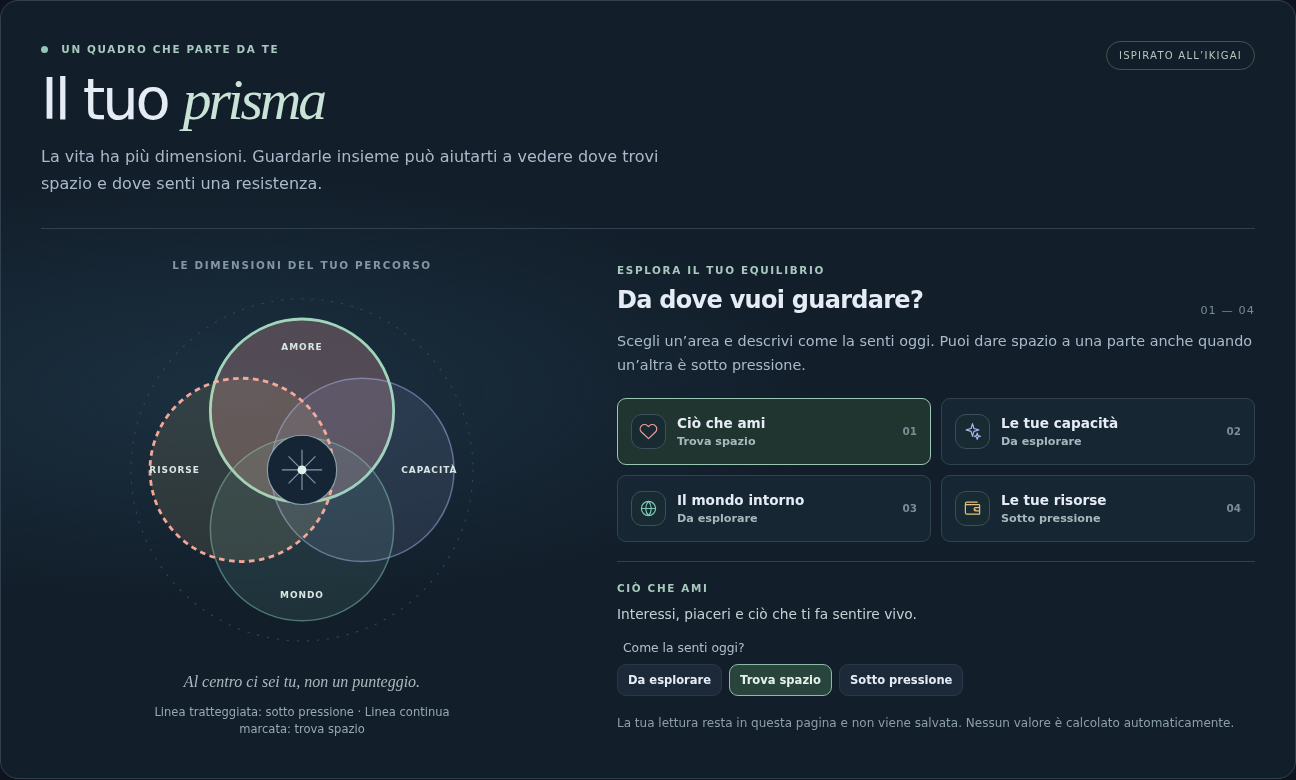
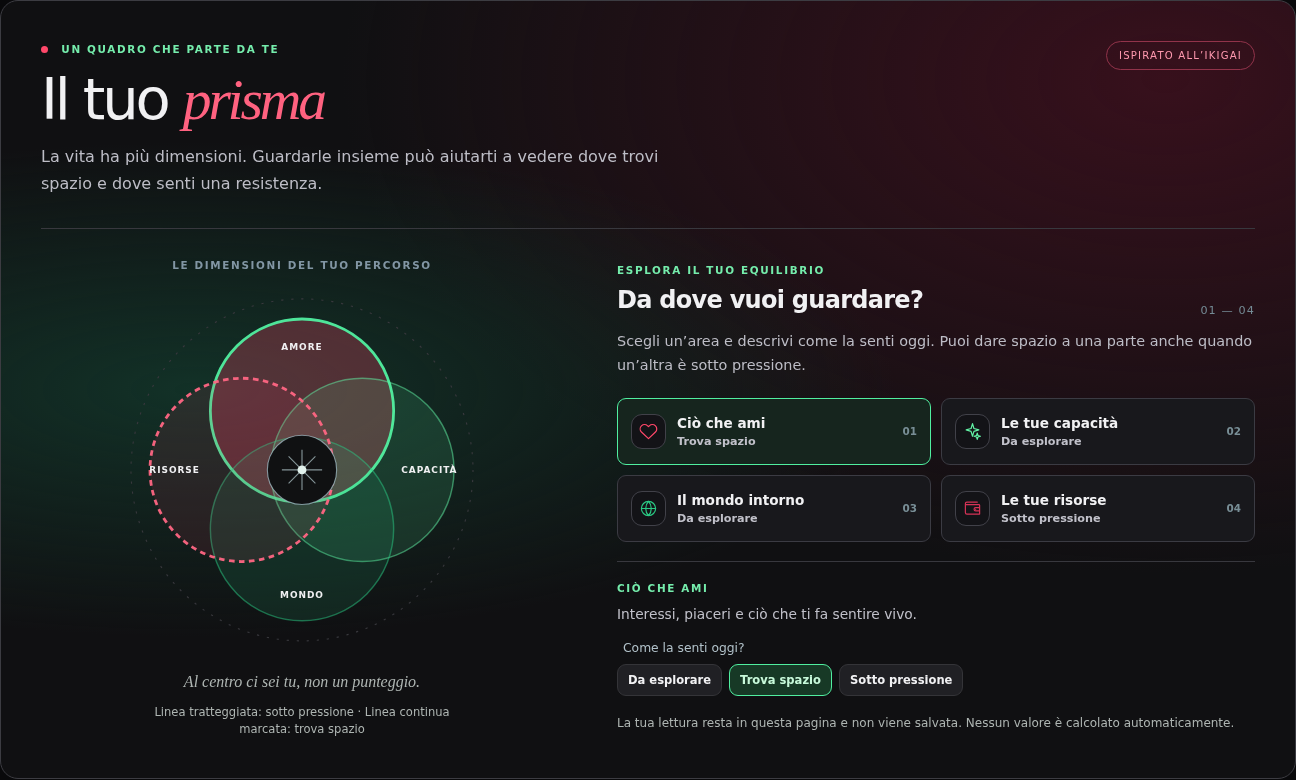
style: apply black red and green identity

diff --git a/docs/assets/site.css b/docs/assets/site.css
@@ -1,4 +1,7 @@
-:root{color-scheme:dark;--ink:#edf2ee;--muted:#a5b7ba;--mint:#a9d4c1;--line:#2a3d40;--bg:#0b151a}*{box-sizing:border-box}html{scroll-behavior:smooth}body{margin:0;background:var(--bg);color:var(--ink);font:16px/1.7 system-ui,-apple-system,BlinkMacSystemFont,"Segoe UI",sans-serif}a{color:inherit;text-decoration:none}a:focus-visible{outline:2px solid #c1e6d5;outline-offset:5px}.skip{position:absolute;top:-100px;left:16px;background:#fff;color:#000;padding:8px;z-index:10}.skip:focus{top:10px}.wrap{width:min(1280px,calc(100% - 100px));margin:auto}.topbar{height:104px;display:flex;align-items:center;justify-content:space-between;gap:24px;border-bottom:1px solid var(--line)}.brand{display:flex;align-items:center;gap:12px;letter-spacing:.16em;font-size:.93rem;font-weight:750;line-height:1.2}.brand small{display:block;letter-spacing:.12em;font-size:.49rem;color:#8aa6a0;margin-top:5px}.brand-mark{width:40px;height:40px;display:grid;place-items:center;font-size:27px;color:var(--mint);border:1px solid #4b7165;border-radius:50%}.topbar nav{display:flex;gap:36px;color:#a9babc;font-size:.8rem}.topbar nav a:hover,.text-link:hover{color:#d7f1e3}.button{display:inline-flex;align-items:center;justify-content:center;gap:32px;padding:13px 19px;border-radius:4px;font-size:.78rem;font-weight:700;letter-spacing:.01em}.button-outline{border:1px solid #496a60;color:#d9eee4}.button-primary{background:var(--mint);color:#10251d}.button-primary:hover{background:#ccebdd}.text-link{font-size:.82rem;font-weight:650;color:#bdd9ce}.hero{min-height:650px;display:grid;grid-template-columns:1fr 1fr;align-items:center;gap:50px;padding-top:60px;padding-bottom:70px}.hero-copy{max-width:650px}.eyebrow{font-size:.67rem;font-weight:750;letter-spacing:.18em;color:#9bc9b6;margin:0 0 25px}.eyebrow span{display:inline-block;width:7px;height:7px;border-radius:50%;background:#99d2b8;margin-right:10px;vertical-align:middle}h1,h2,h3,p{margin-top:0}h1,h2{font-family:Georgia,"Times New Roman",serif;font-weight:400;letter-spacing:-.045em;line-height:1.06}h1{font-size:clamp(4rem,7vw,6.4rem);margin-bottom:27px}h1 em,h2 em{font-weight:400;color:#b8dbca}.hero-lead{font-size:1.03rem;max-width:500px;color:var(--muted);line-height:1.85}.actions{display:flex;align-items:center;gap:28px;flex-wrap:wrap;margin-top:36px}.hero-note{font-size:.61rem;letter-spacing:.14em;color:#819996;margin:69px 0 0}.hero-note span{font-size:1rem;color:#a3cdb9;margin-right:8px}.hero-art{position:relative;height:520px;display:grid;place-items:center;background:radial-gradient(circle,#1e3837 0,transparent 62%)}.orbit{position:absolute;border:1px solid #39514d;border-radius:50%;width:480px;height:480px}.orbit-two{width:410px;height:410px;border-style:dashed;opacity:.5}.prism-rings{position:relative;width:330px;height:330px}.prism-rings i{position:absolute;width:190px;height:190px;border:1px solid;border-radius:50%}.prism-rings i:nth-child(1){left:70px;top:10px;color:#e9a6a1;background:#e9a6a11c}.prism-rings i:nth-child(2){right:10px;top:70px;color:#aeb3ed;background:#aeb3ed1c}.prism-rings i:nth-child(3){left:70px;bottom:10px;color:#87c7b2;background:#87c7b21c}.prism-rings i:nth-child(4){left:10px;top:70px;color:#e5c27f;background:#e5c27f1c}.prism-rings b{position:absolute;inset:136px;display:grid;place-items:center;border-radius:50%;border:1px solid #9ec9bb;background:#162b2b;color:#d6f0e3;font-size:26px}.art-label{position:absolute;color:#9cb5b0;font-size:.6rem;font-weight:700;letter-spacing:.16em}.art-top{top:53px}.art-bottom{bottom:50px}.art-left{left:6%}.art-right{right:6%}.art-caption{position:absolute;bottom:0;right:0;border-left:1px solid #739b89;padding-left:15px;display:flex;flex-direction:column}.art-caption span,.card-index{font-size:.6rem;letter-spacing:.13em;color:#8ba89d}.art-caption strong{font-family:Georgia,serif;font-weight:400;font-size:1.1rem}.manifesto{border-block:1px solid var(--line);background:#10201e}.manifesto-inner{display:flex;align-items:center;justify-content:space-between;gap:40px;padding-block:42px}.manifesto .eyebrow{margin:0}.manifesto-inner>p:nth-child(2){font:1.75rem/1.35 Georgia,serif;letter-spacing:-.02em;margin:0}.manifesto em{color:#9fcbba}.section{padding-block:125px}.section-heading{display:grid;grid-template-columns:1.2fr .8fr;gap:70px;align-items:end;margin-bottom:55px}.section-heading p:last-child{color:var(--muted);max-width:450px;margin-bottom:4px}h2{font-size:clamp(2.7rem,4.6vw,4.5rem);margin-bottom:0}.principles{display:grid;grid-template-columns:repeat(3,1fr);border:1px solid var(--line)}.principles article{padding:30px 32px 38px;min-height:300px}.principles article+article{border-left:1px solid var(--line)}.line-icon{font-size:2.2rem;color:#a5d1ba;margin:32px 0 20px;line-height:1}h3{font-size:1.15rem;font-weight:600;margin-bottom:12px}.principles p,.flow p,.privacy-note p,.prism-layout>div>p:not(.eyebrow),.example-layout>div>p:not(.eyebrow){color:var(--muted);font-size:.91rem;line-height:1.8}.prism-section{background:#142324;border-block:1px solid var(--line)}.prism-layout{display:grid;grid-template-columns:.8fr 1.2fr;gap:80px;align-items:center}.prism-layout h2{margin-bottom:28px}.prism-layout figure{margin:0}.prism-layout img{display:block;width:100%;border:1px solid #405b55;border-radius:12px;box-shadow:0 25px 65px #0005}.prism-layout figcaption{text-align:right;color:#8da8a0;font-size:.6rem;letter-spacing:.14em;margin-top:12px}.flow{display:grid;grid-template-columns:1fr 40px 1fr 40px 1fr;align-items:stretch}.flow article{background:#132320;border:1px solid var(--line);padding:26px;min-height:240px}.flow article>span{font-family:Georgia,serif;color:#92bbaa}.flow h3{margin:35px 0 10px}.flow small{font-size:.6rem;letter-spacing:.1em;color:#a6cdb9}.flow-arrow{display:grid;place-items:center;color:#7da490}.privacy-note{display:flex;gap:22px;border-left:2px solid #91c4ab;background:#10201e;margin-top:38px;padding:25px 29px}.privacy-note>span{font-size:1.8rem;color:#a8d6bf}.privacy-note h3{margin:0}.privacy-note p{margin:8px 0 0}.example{background:#c2d9cb;color:#193027;padding-block:90px}.example-layout{display:grid;grid-template-columns:1fr 1fr;gap:90px}.example .eyebrow{color:#355d4b}.example .eyebrow span{background:#476f5a}.example h2 em{color:#477864}.example-layout>div>p:not(.eyebrow){color:#334e41;font-size:1rem}.example-layout .note{font-size:.75rem!important;color:#526c5f!important}.status-grid{display:grid;grid-template-columns:1fr 1fr;gap:16px}.status-grid>div{border:1px solid var(--line);padding:32px}.status-badge{display:inline-block;color:#c1e5cf;border:1px solid #456b58;border-radius:30px;padding:4px 9px;font-size:.6rem;letter-spacing:.13em}.status-badge.future{color:#ddc994;border-color:#72694d}.status-grid h3{margin:23px 0 10px}.status-grid ul{padding-left:20px;margin-bottom:0;color:var(--muted);font-size:.9rem}.disclaimer{font-size:.76rem;color:#8fa5a1;margin:24px 0 0}.closing{background:#162a26;border-top:1px solid #315043}.closing-inner{padding-block:95px}.closing h2{max-width:850px}.footer{display:flex;align-items:center;justify-content:space-between;gap:25px;padding-block:35px;color:#91a8a0;font-size:.72rem}.footer>div{display:flex;gap:24px}.footer .brand{color:#dbe9df}
+:root{color-scheme:dark;--ink:#f4f4f4;--muted:#b8b8bc;--mint:#50efa0;--line:#303033;--bg:#090909}*{box-sizing:border-box}html{scroll-behavior:smooth}body{margin:0;background:var(--bg);color:var(--ink);font:16px/1.7 system-ui,-apple-system,BlinkMacSystemFont,"Segoe UI",sans-serif}a{color:inherit;text-decoration:none}a:focus-visible{outline:2px solid #50efa0;outline-offset:5px}.skip{position:absolute;top:-100px;left:16px;background:#fff;color:#000;padding:8px;z-index:10}.skip:focus{top:10px}.wrap{width:min(1280px,calc(100% - 100px));margin:auto}.topbar{height:104px;display:flex;align-items:center;justify-content:space-between;gap:24px;border-bottom:1px solid var(--line)}.brand{display:flex;align-items:center;gap:12px;letter-spacing:.16em;font-size:.93rem;font-weight:750;line-height:1.2}.brand small{display:block;letter-spacing:.12em;font-size:.49rem;color:#8aa6a0;margin-top:5px}.brand-mark{width:40px;height:40px;display:grid;place-items:center;font-size:27px;color:var(--mint);border:1px solid #93233a;border-radius:50%}.topbar nav{display:flex;gap:36px;color:#a9babc;font-size:.8rem}.topbar nav a:hover,.text-link:hover{color:#d7f1e3}.button{display:inline-flex;align-items:center;justify-content:center;gap:32px;padding:13px 19px;border-radius:4px;font-size:.78rem;font-weight:700;letter-spacing:.01em}.button-outline{border:1px solid #496a60;color:#d9eee4}.button-primary{background:var(--mint);color:#07170e}.button-primary:hover{background:#77ffc0}.text-link{font-size:.82rem;font-weight:650;color:#bdd9ce}.hero{min-height:650px;display:grid;grid-template-columns:1fr 1fr;align-items:center;gap:50px;padding-top:60px;padding-bottom:70px}.hero-copy{max-width:650px}.eyebrow{font-size:.67rem;font-weight:750;letter-spacing:.18em;color:#64e9a4;margin:0 0 25px}.eyebrow span{display:inline-block;width:7px;height:7px;border-radius:50%;background:#fa3158;margin-right:10px;vertical-align:middle}h1,h2,h3,p{margin-top:0}h1,h2{font-family:Georgia,"Times New Roman",serif;font-weight:400;letter-spacing:-.045em;line-height:1.06}h1{font-size:clamp(4rem,7vw,6.4rem);margin-bottom:27px}h1 em,h2 em{font-weight:400;color:#ff486a}.hero-lead{font-size:1.03rem;max-width:500px;color:var(--muted);line-height:1.85}.actions{display:flex;align-items:center;gap:28px;flex-wrap:wrap;margin-top:36px}.hero-note{font-size:.61rem;letter-spacing:.14em;color:#819996;margin:69px 0 0}.hero-note span{font-size:1rem;color:#a3cdb9;margin-right:8px}.hero-art{position:relative;height:520px;display:grid;place-items:center;background:radial-gradient(circle,#113b2a 0,transparent 62%)}.orbit{position:absolute;border:1px solid #3d3d41;border-radius:50%;width:480px;height:480px}.orbit-two{width:410px;height:410px;border-style:dashed;opacity:.5}.prism-rings{position:relative;width:330px;height:330px}.prism-rings i{position:absolute;width:190px;height:190px;border:1px solid;border-radius:50%}.prism-rings i:nth-child(1){left:70px;top:10px;color:#ff355e;background:#ff355e1c}.prism-rings i:nth-child(2){right:10px;top:70px;color:#59f5a8;background:#59f5a81c}.prism-rings i:nth-child(3){left:70px;bottom:10px;color:#29bd7b;background:#29bd7b1c}.prism-rings i:nth-child(4){left:10px;top:70px;color:#c41645;background:#c416451c}.prism-rings b{position:absolute;inset:136px;display:grid;place-items:center;border-radius:50%;border:1px solid #9ec9bb;background:#0d100f;color:#d6f0e3;font-size:26px}.art-label{position:absolute;color:#9cb5b0;font-size:.6rem;font-weight:700;letter-spacing:.16em}.art-top{top:53px}.art-bottom{bottom:50px}.art-left{left:6%}.art-right{right:6%}.art-caption{position:absolute;bottom:0;right:0;border-left:1px solid #739b89;padding-left:15px;display:flex;flex-direction:column}.art-caption span,.card-index{font-size:.6rem;letter-spacing:.13em;color:#8ba89d}.art-caption strong{font-family:Georgia,serif;font-weight:400;font-size:1.1rem}.manifesto{border-block:1px solid var(--line);background:#111113}.manifesto-inner{display:flex;align-items:center;justify-content:space-between;gap:40px;padding-block:42px}.manifesto .eyebrow{margin:0}.manifesto-inner>p:nth-child(2){font:1.75rem/1.35 Georgia,serif;letter-spacing:-.02em;margin:0}.manifesto em{color:#ff6a87}.section{padding-block:125px}.section-heading{display:grid;grid-template-columns:1.2fr .8fr;gap:70px;align-items:end;margin-bottom:55px}.section-heading p:last-child{color:var(--muted);max-width:450px;margin-bottom:4px}h2{font-size:clamp(2.7rem,4.6vw,4.5rem);margin-bottom:0}.principles{display:grid;grid-template-columns:repeat(3,1fr);border:1px solid var(--line)}.principles article{padding:30px 32px 38px;min-height:300px}.principles article+article{border-left:1px solid var(--line)}.line-icon{font-size:2.2rem;color:#56eba2;margin:32px 0 20px;line-height:1}h3{font-size:1.15rem;font-weight:600;margin-bottom:12px}.principles p,.flow p,.privacy-note p,.prism-layout>div>p:not(.eyebrow),.example-layout>div>p:not(.eyebrow){color:var(--muted);font-size:.91rem;line-height:1.8}.prism-section{background:#101012;border-block:1px solid var(--line)}.prism-layout{display:grid;grid-template-columns:.8fr 1.2fr;gap:80px;align-items:center}.prism-layout h2{margin-bottom:28px}.prism-layout figure{margin:0}.prism-layout img{display:block;width:100%;border:1px solid #3f4944;border-radius:12px;box-shadow:0 25px 65px #0005}.prism-layout figcaption{text-align:right;color:#8da8a0;font-size:.6rem;letter-spacing:.14em;margin-top:12px}.flow{display:grid;grid-template-columns:1fr 40px 1fr 40px 1fr;align-items:stretch}.flow article{background:#111113;border:1px solid var(--line);padding:26px;min-height:240px}.flow article>span{font-family:Georgia,serif;color:#92bbaa}.flow h3{margin:35px 0 10px}.flow small{font-size:.6rem;letter-spacing:.1em;color:#a6cdb9}.flow-arrow{display:grid;place-items:center;color:#7da490}.privacy-note{display:flex;gap:22px;border-left:2px solid #ef2850;background:#111113;margin-top:38px;padding:25px 29px}.privacy-note>span{font-size:1.8rem;color:#ff486a}.privacy-note h3{margin:0}.privacy-note p{margin:8px 0 0}.example{background:#210c13;color:#f4f4f4;padding-block:90px}.example-layout{display:grid;grid-template-columns:1fr 1fr;gap:90px}.example .eyebrow{color:#ff8ca4}.example .eyebrow span{background:#ff486a}.example h2 em{color:#ff6a87}.example-layout>div>p:not(.eyebrow){color:#ded4d7;font-size:1rem}.example-layout .note{font-size:.75rem!important;color:#c4aeb5!important}.status-grid{display:grid;grid-template-columns:1fr 1fr;gap:16px}.status-grid>div{border:1px solid var(--line);padding:32px}.status-badge{display:inline-block;color:#c1e5cf;border:1px solid #456b58;border-radius:30px;padding:4px 9px;font-size:.6rem;letter-spacing:.13em}.status-badge.future{color:#ddc994;border-color:#72694d}.status-grid h3{margin:23px 0 10px}.status-grid ul{padding-left:20px;margin-bottom:0;color:var(--muted);font-size:.9rem}.disclaimer{font-size:.76rem;color:#8fa5a1;margin:24px 0 0}.closing{background:#101412;border-top:1px solid #283b31}.closing-inner{padding-block:95px}.closing h2{max-width:850px}.footer{display:flex;align-items:center;justify-content:space-between;gap:25px;padding-block:35px;color:#91a8a0;font-size:.72rem}.footer>div{display:flex;gap:24px}.footer .brand{color:#dbe9df}
 @media(max-width:900px){.wrap{width:min(100% - 48px,1280px)}.topbar nav{display:none}.hero{grid-template-columns:1fr;padding-top:80px}.hero-art{height:470px}.section{padding-block:80px}.section-heading,.prism-layout,.example-layout{grid-template-columns:1fr;gap:30px}.section-heading{margin-bottom:35px}.manifesto-inner{align-items:flex-start;flex-direction:column;gap:20px}.principles{grid-template-columns:1fr}.principles article{min-height:0}.principles article+article{border-left:0;border-top:1px solid var(--line)}.line-icon{margin:22px 0 15px}.flow{grid-template-columns:1fr}.flow-arrow{height:40px;transform:rotate(90deg)}.flow article{min-height:0}.flow h3{margin:20px 0 10px}.footer{align-items:flex-start;flex-direction:column}}
 @media(max-width:540px){.wrap{width:calc(100% - 36px)}.topbar{height:80px}.nav-cta{font-size:0;padding:10px}.nav-cta span{font-size:1rem}.hero{padding-top:65px;gap:30px}.hero h1{font-size:3.7rem}.hero-note{margin-top:45px}.hero-art{height:380px;overflow:hidden}.orbit{width:340px;height:340px}.orbit-two{width:300px;height:300px}.prism-rings{transform:scale(.76)}.art-top{top:25px}.art-bottom{bottom:25px}.art-left{left:1%}.art-right{right:1%}.art-caption{display:none}.section{padding-block:70px}.status-grid{grid-template-columns:1fr}.example{padding-block:70px}.closing-inner{padding-block:70px}.manifesto-inner>p:nth-child(2){font-size:1.4rem}}
 @media(prefers-reduced-motion:reduce){html{scroll-behavior:auto}}
+
+/* Black, crimson and green identity. */
+.brand-mark{color:#ff486a;background:#1a0b10}.button-primary{background:#e11d48;color:#fff}.button-primary:hover{background:#c3133a}.button-outline{border-color:#a92d47;color:#ffd3dd}.hero-art{background:radial-gradient(ellipse at 36% 36%,#ef174126,transparent 54%),radial-gradient(ellipse at 65% 65%,#39f69b1c,transparent 55%)}.prism-rings i:nth-child(1),.prism-rings i:nth-child(4){box-shadow:0 0 26px #fc174019}.prism-rings i:nth-child(2),.prism-rings i:nth-child(3){box-shadow:0 0 25px #42f7a315}.principles article:nth-child(2) .line-icon{color:#ff486a}.status-badge{color:#7af8b3;border-color:#287b50}.status-badge.future{color:#ff8aa3;border-color:#8d2940}.privacy-note{background:#101513;border-color:#50efa0}.example .eyebrow{color:#ff8ca4}.example h2 em{color:#ff6a87}.example-layout>div>p:not(.eyebrow){color:#e1d8db}.example-layout .note{color:#c4aeb5!important}

diff --git a/index.html b/index.html
@@ -4,9 +4,9 @@
   <meta charset="utf-8">
   <meta name="viewport" content="width=device-width,initial-scale=1">
   <meta name="description" content="BlockRock: un percorso personale verso la stabilità, con un registro blockchain verificabile e dati sotto il controllo della persona.">
-  <meta name="theme-color" content="#0b141c">
+  <meta name="theme-color" content="#090909">
   <title>BlockRock — Uno spazio per ritrovare equilibrio</title>
-  <link rel="stylesheet" href="docs/assets/site.css">
+  <link rel="stylesheet" href="docs/assets/site.css?v=redgreen1">
 </head>
 <body>
   <a class="skip" href="#main">Vai al contenuto</a>
@@ -24,7 +24,7 @@
     <section id="visione" class="section wrap"><div class="section-heading"><div><p class="eyebrow"><span></span> 01 / LA VISIONE</p><h2>Capire il presente.<br><em>Proteggere il futuro.</em></h2></div><p>Un impegno economico, una necessità per la casa, una scelta rimandata: ogni situazione ha conseguenze che meritano di essere viste insieme.</p></div>
       <div class="principles"><article><span class="card-index">01 / OSSERVARE</span><div class="line-icon">⌁</div><h3>Un quadro più ampio</h3><p>Raccogliere impegni, risorse e bisogni per riconoscere le resistenze che limitano il margine di scelta.</p></article><article><span class="card-index">02 / COMPRENDERE</span><div class="line-icon">◈</div><h3>Ogni parte conta</h3><p>Il prisma, ispirato all’Ikigai, aiuta a osservare le diverse dimensioni del percorso senza assegnare un voto alla persona.</p></article><article><span class="card-index">03 / COSTRUIRE</span><div class="line-icon">↗</div><h3>Un passo alla volta</h3><p>Definire una direzione e lavorare verso una riserva per gli imprevisti, secondo possibilità e obiettivi personali.</p></article></div>
     </section>
-    <section id="prisma" class="section prism-section"><div class="wrap prism-layout"><div><p class="eyebrow"><span></span> 02 / NEXUS</p><h2>Il tuo percorso,<br><em>da più prospettive.</em></h2><p>Nexus è lo spazio personale di BlockRock. Il suo primo prisma interattivo permette di esplorare quattro dimensioni e indicare dove senti spazio o pressione.</p><p>Le valutazioni sono temporanee e scelte dalla persona. I collegamenti automatici ai dati del gateway e l’analisi delle relazioni sono ancora da sviluppare.</p><a class="text-link" href="https://github.com/BlockRockAdmin/BlockRock/tree/main/nexus">Scopri Nexus su GitHub <span aria-hidden="true">↗</span></a></div><figure><img src="docs/assets/nexus-prisma.png" alt="Il prisma interattivo di Nexus con quattro dimensioni e valutazioni di esempio"><figcaption>ANTEPRIMA NEXUS · DATI DI PROVA</figcaption></figure></div></section>
+    <section id="prisma" class="section prism-section"><div class="wrap prism-layout"><div><p class="eyebrow"><span></span> 02 / NEXUS</p><h2>Il tuo percorso,<br><em>da più prospettive.</em></h2><p>Nexus è lo spazio personale di BlockRock. Il suo primo prisma interattivo permette di esplorare quattro dimensioni e indicare dove senti spazio o pressione.</p><p>Le valutazioni sono temporanee e scelte dalla persona. I collegamenti automatici ai dati del gateway e l’analisi delle relazioni sono ancora da sviluppare.</p><a class="text-link" href="https://github.com/BlockRockAdmin/BlockRock/tree/main/nexus">Scopri Nexus su GitHub <span aria-hidden="true">↗</span></a></div><figure><img src="docs/assets/nexus-prisma.png?v=redgreen1" alt="Il prisma interattivo di Nexus con quattro dimensioni e valutazioni di esempio"><figcaption>ANTEPRIMA NEXUS · DATI DI PROVA</figcaption></figure></div></section>
     <section id="ecosistema" class="section wrap"><div class="section-heading"><div><p class="eyebrow"><span></span> 03 / L’ECOSISTEMA</p><h2>Una storia chiara.<br><em>Regole verificabili.</em></h2></div><p>La blockchain è il registro pensato per dare continuità e verificabilità ai movimenti autorizzati, nel rispetto dei confini della persona.</p></div>
       <div class="flow"><article><span>01</span><h3>Gateway personale</h3><p>Documenti e impegni organizzati su NAS o PC. La persona sceglie le informazioni da rendere disponibili.</p><small>COLLEGAMENTO DA REALIZZARE</small></article><div class="flow-arrow" aria-hidden="true">→</div><article><span>02</span><h3>Nexus e prisma</h3><p>Uno spazio per esplorare obiettivi, dimensioni della vita e possibili resistenze.</p><small>PRIMA VERSIONE DISPONIBILE</small></article><div class="flow-arrow" aria-hidden="true">→</div><article><span>03</span><h3>Blockchain</h3><p>Transazioni firmate e blocchi collegati rendono verificabile l’integrità dello storico.</p><small>NODO IN FASE DI PROTOTIPO</small></article></div>
       <div class="privacy-note"><span aria-hidden="true">◇</span><div><h3>Privato per scelta, trasparente nelle regole.</h3><p>Il progetto punta a mantenere i dati personali sul dispositivo o sulla rete privata scelta dalla persona; non vanno inseriti nella blockchain pubblica. Il collegamento tra gateway, percorso e catena è un obiettivo futuro.</p></div></div>

diff --git a/nexus/src/components/IkigaiPrism.vue b/nexus/src/components/IkigaiPrism.vue
@@ -4,10 +4,10 @@ import { computed, reactive, ref } from "vue";
 type Area = "amore" | "capacita" | "mondo" | "risorse";
 type Feeling = "non_definito" | "equilibrio" | "pressione";
 const areas: { id: Area; name: string; hint: string; color: string; cx: number; cy: number }[] = [
-  { id: "amore", name: "Ciò che ami", hint: "Interessi, piaceri e ciò che ti fa sentire vivo.", color: "#ee9f9c", cx: 170, cy: 116 },
-  { id: "capacita", name: "Le tue capacità", hint: "Ciò che sai fare e ciò che desideri imparare.", color: "#aeb3ed", cx: 224, cy: 169 },
-  { id: "mondo", name: "Il mondo intorno", hint: "Relazioni, bisogni e contributo agli altri.", color: "#81c8b4", cx: 170, cy: 222 },
-  { id: "risorse", name: "Le tue risorse", hint: "Sostentamento, lavoro e spazio economico.", color: "#e5c27f", cx: 116, cy: 169 },
+  { id: "amore", name: "Ciò che ami", hint: "Interessi, piaceri e ciò che ti fa sentire vivo.", color: "#ff486a", cx: 170, cy: 116 },
+  { id: "capacita", name: "Le tue capacità", hint: "Ciò che sai fare e ciò che desideri imparare.", color: "#62f3a6", cx: 224, cy: 169 },
+  { id: "mondo", name: "Il mondo intorno", hint: "Relazioni, bisogni e contributo agli altri.", color: "#2ac984", cx: 170, cy: 222 },
+  { id: "risorse", name: "Le tue risorse", hint: "Sostentamento, lavoro e spazio economico.", color: "#d63357", cx: 116, cy: 169 },
 ];
 const selected = ref<Area>("amore");
 const values = reactive<Record<Area, Feeling>>({ amore: "non_definito", capacita: "non_definito", mondo: "non_definito", risorse: "non_definito" });
@@ -26,9 +26,9 @@ const current = computed(() => areas.find((area) => area.id === selected.value)!
       <div class="prism-visual">
         <p class="prism-visual-label">LE DIMENSIONI DEL TUO PERCORSO</p>
         <svg viewBox="0 0 340 340" role="img" aria-label="Quattro cerchi sovrapposti: ciò che ami, capacità, mondo intorno e risorse. Scegli un'area nelle schede accanto.">
-          <circle cx="170" cy="169" r="153" fill="none" stroke="#354454" stroke-dasharray="2 7" />
-          <circle v-for="area in areas" :key="area.id" :cx="area.cx" :cy="area.cy" r="82" :fill="area.color" :fill-opacity="selected === area.id ? .27 : .12" :stroke="values[area.id] === 'pressione' ? '#ffad9d' : values[area.id] === 'equilibrio' ? '#a6dec2' : area.color" :stroke-dasharray="values[area.id] === 'pressione' ? '5 4' : undefined" :stroke-opacity="selected === area.id || values[area.id] !== 'non_definito' ? .95 : .5" :stroke-width="values[area.id] === 'non_definito' ? 1.3 : 2.5" />
-          <circle cx="170" cy="169" r="31" fill="#152535" stroke="#b1d1dc" stroke-opacity=".65" />
+          <circle cx="170" cy="169" r="153" fill="none" stroke="#38383d" stroke-dasharray="2 7" />
+          <circle v-for="area in areas" :key="area.id" :cx="area.cx" :cy="area.cy" r="82" :fill="area.color" :fill-opacity="selected === area.id ? .27 : .12" :stroke="values[area.id] === 'pressione' ? '#ff6683' : values[area.id] === 'equilibrio' ? '#50efa0' : area.color" :stroke-dasharray="values[area.id] === 'pressione' ? '5 4' : undefined" :stroke-opacity="selected === area.id || values[area.id] !== 'non_definito' ? .95 : .5" :stroke-width="values[area.id] === 'non_definito' ? 1.3 : 2.5" />
+          <circle cx="170" cy="169" r="31" fill="#101112" stroke="#b1d1dc" stroke-opacity=".65" />
           <path d="M170 151v36M152 169h36M158 157l24 24M182 157l-24 24" stroke="#c3dce0" stroke-width="1" opacity=".65" />
           <circle cx="170" cy="169" r="4" fill="#e1f1ec" />
           <text x="170" y="62" text-anchor="middle">AMORE</text><text x="284" y="172" text-anchor="middle">CAPACITÀ</text><text x="170" y="284" text-anchor="middle">MONDO</text><text x="56" y="172" text-anchor="middle">RISORSE</text>

diff --git a/nexus/src/assets/nexus.css b/nexus/src/assets/nexus.css
@@ -1088,3 +1088,20 @@ legend {
 .area-icon { width: 35px; height: 35px; flex: none; display: grid; place-items: center; border: 1px solid #3d5055; border-radius: 11px; background: #182a32; }
 .area-icon svg { width: 19px; height: 19px; }
 .prism-key { color: #95aab1; font-size: .72rem; line-height: 1.5; margin: 8px auto 0; max-width: 300px; }
+
+/* Identità BlockRock: nero, rosso e verde. */
+:root { color: #f1f1f3; background: #09090b; --surface: #121214; --line: #343438; --muted: #b2b2bb; --blue: #ff486a; --blue-soft: #ff91a7; }
+button { background: #202024; } button:hover:not(:disabled) { background: #303037; border-color: #767680; }
+input, textarea { background: #0d0d10; border-color: #4a4a51; color: #f2f2f4; }
+.brand-mark, .primary { background: #e11d48; color: #fff; border-color: #e11d48; }
+.primary:hover:not(:disabled) { background: #c3133a; }
+.prism { background: radial-gradient(ellipse at 15% 50%, #123127 0%, transparent 45%), radial-gradient(ellipse at 90% 10%, #37101c 0%, transparent 50%), #101012; border-color: #3c3c42; }
+.prism-intro, .prism-reflection { border-color: #38383e; }
+.prism-intro h1 em { color: #ff6280; }.prism-intro > div > p:last-child, .prism-description { color: #bdbdc6; }
+.prism-kicker, .prism-small { color: #75edac; }.prism-kicker span { background: #ff486a; }
+.prism-tag { border-color: #91334a; color: #ff99af; }.prism-visual svg text { fill: #f0f0f2; }
+.prism-area { background: #18181c; border-color: #3b3b43; }.prism-area.active { background: #16251e; border-color: #50efa0; }
+.area-icon { background: #131317; border-color: #414149; }.area-label small, .prism-reflection > div > p:last-child { color: #c1c1ca; }
+.prism-choices button[aria-pressed="true"] { background: #173926; border-color: #50efa0; color: #c7f9da; }
+.prism-visual-foot, .prism-key, .prism-note { color: #aeb5b2; }
+.sync-dot { background: #50efa0; }
